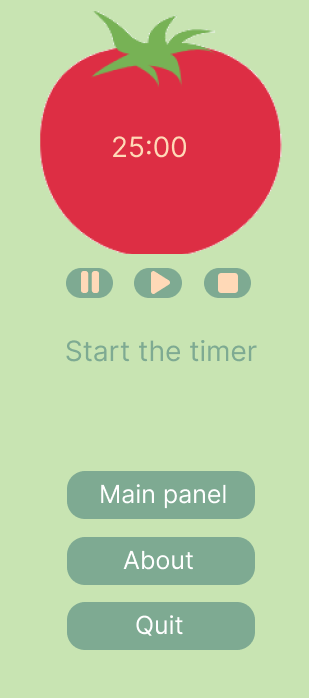
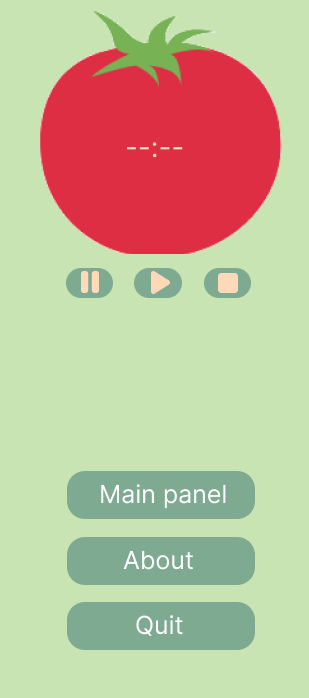
added pomodoro with timer start and stop functions

diff --git a/app/components/frames/right_frame.py b/app/components/frames/right_frame.py
@@ -1,5 +1,15 @@
 import tkinter as tk
 from tkinter import PhotoImage
+import math
+
+BACKGROUND = "#cde3b6"
+WORK_MIN = 25
+SHORT_BREAK_MIN = 5
+LONG_BREAK_MIN = 20
+repetitions = 0
+num_of_ticks = ""
+timer = None
+current_stare = "idle"
 
 
 class RightFrame(tk.Frame):
@@ -12,9 +22,39 @@ class RightFrame(tk.Frame):
         self.background.place(relwidth=1, relheight=1)
         self.pack(side="right")
 
+    # Pomodoro section
+        self.timer = tk.Label(self, text="--:--", font=('Courier', 28, "normal"), fg="#FFD9B7", background="#dd2e44",
+                              bd=0)
+        self.timer.place(x=80, y=130)
+
+        self.tick = tk.Label(self, text='', fg="#7EAA92", bg="#dd2e44", font=('Courier', 10, "bold"))
+        self.tick.place(x=95, y=200)
+
+        self.start_button_bg = PhotoImage(file="./components/graphical_components/pomodoro/pomodoro_start_button.png")
+        self.pause_button_bg = PhotoImage(file="./components/graphical_components/pomodoro/pomodoro_pause_button.png")
+        self.stop_button_bg = PhotoImage(file="./components/graphical_components/pomodoro/pomodoro_stop_button.png")
+
+        self.pause_button = tk.Button(self, command=self.open_about, image=self.pause_button_bg, bd=0,
+                                      background=BACKGROUND)
+        self.pause_button.place(x=44, y=267)
+        self.pause_button.place(x=44, y=267)
+        self.start_button = tk.Button(self, command=self.start_timer, image=self.start_button_bg, bd=0,
+                                      background=BACKGROUND)
+        self.start_button.place(x=112, y=267)
+        self.stop_button = tk.Button(self, command=self.reset_timer, image=self.stop_button_bg, bd=0,
+                                     background=BACKGROUND)
+        self.stop_button.place(x=180, y=267)
+
+        self.timer_state_idle_bg = PhotoImage(file="./components/graphical_components/pomodoro/start_the_timer.png")
+        self.timer_state_learning_time = PhotoImage(file="./components/graphical_components/pomodoro/learning_time.png")
+        self.timer_state_quick_break = PhotoImage(file="./components/graphical_components/pomodoro/quick_break.png")
+        self.timer_state_long_break = PhotoImage(file="./components/graphical_components/pomodoro/long_break.png")
+
+    # Menu section
         self.main_panel_bg = PhotoImage(file="./components/graphical_components/main_panel/main_panel_button.png")
         self.about_button_bg = PhotoImage(file="./components/graphical_components/main_panel/about_button.png")
         self.quit_button_bg = PhotoImage(file="./components/graphical_components/main_panel/quit_button.png")
+
         self.main_panel_button = tk.Button(self, command=self.open_main_panel, image=self.main_panel_bg,
                                            bd=0, background='#cde3b6')
         self.main_panel_button.place(x=45, y=471)
@@ -26,6 +66,50 @@ class RightFrame(tk.Frame):
         self.quit_button = tk.Button(self, command=self.quit_app, image=self.quit_button_bg, bd=0, background='#cde3b6',
                                      highlightthickness=0, highlightbackground='#cde3b6')
         self.quit_button.place(x=45, y=602)
+
+    def count_down(self, count):
+        global num_of_ticks
+        count_min = math.floor(count / 60)
+        count_sec = count % 60
+        if count_min < 10:
+            count_min = f"0{count_min}"
+        if count_sec == 0:
+            count_sec = "00"
+        elif count_sec < 10:
+            count_sec = f"0{count_sec}"
+        self.timer.config(text=f"{count_min}:{count_sec}")
+        if count > 0:
+            global timer
+            timer = self.master.after(1000, self.count_down, count - 1)
+        else:
+            self.start_timer()
+            if repetitions % 2 == 0:
+                num_of_ticks += "✔"
+                self.tick.config(text=num_of_ticks)
+            if repetitions % 8 == 0:
+                num_of_ticks = ""
+                self.tick.config(text=num_of_ticks)
+
+    def reset_timer(self):
+        global repetitions, num_of_ticks
+        self.after_cancel(timer)
+        self.timer.config(text="--:--")
+        self.tick.config(text="")
+        repetitions = 0
+        num_of_ticks = ""
+
+    def start_timer(self):
+        global repetitions
+        repetitions += 1
+        if repetitions % 8 == 0:
+            self.count_down(LONG_BREAK_MIN * 60)
+            #title.config(text=f"Przerwa", fg=RED, font=(FONT_NAME, 28, "bold"))
+        elif repetitions % 2 == 0:
+            self.count_down(SHORT_BREAK_MIN * 60)
+            #title.config(text=f"Przerwa", fg=PINK, font=(FONT_NAME, 28, "bold"))
+        else:
+            self.count_down(WORK_MIN * 60)
+            #title.config(text=f"Praca", fg=GREEN, font=(FONT_NAME, 32, "bold"))
 
     def open_main_panel(self):
         print('Main Panel button has been pressed')

diff --git a/app/components/main_panel.py b/app/components/main_panel.py
@@ -7,7 +7,7 @@ from app.components.frames.right_frame import RightFrame
 class MainPanel:
     def __init__(self, root):
         self.panel = root
-        self.panel.title("Learn-ey")
+        self.panel.title("Learn-ey Main Panel")
         self.panel.geometry('961x698')
         self.panel.resizable(False, False)
         self.background_image = PhotoImage(file="./components/graphical_components/shared/background.png")
